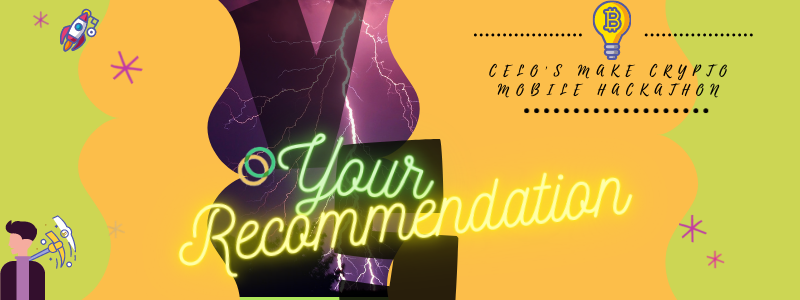
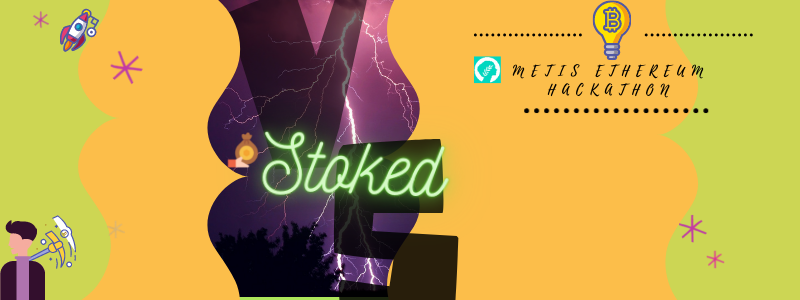
Finished implemeting stoke token to test, it works well in rinkeby

Changed region(s): [[0.2188, 0.42, 0.8125, 0.93], [0.5938, 0.18, 0.9062, 0.33]]

diff --git a/src/App.js b/src/App.js
@@ -1,6 +1,5 @@
 import React, { useState, useEffect } from 'react';
 import Web3 from 'web3';
-import { newKitFromWeb3 } from '@celo/contractkit';
 import BigNumber from 'bignumber.js';
 import { Tabs, Tab, Col, Toast, Button } from 'react-bootstrap';
 
@@ -9,17 +8,16 @@ import './extra/css/style.css'
 import Navigate from './components/Navigate'
 import AddItems from './components/AddItems';
 import Cards from './components/Cards';
-// import Toasts from './components/Toasts';
 
-import animeBallotAbi from './contracts/animeBallot.abi.json';
-import erc20Abi from './contracts/erc20.abi.json';
+import stokedAbi from './contracts/stoked.abi.json';
+import stokeTokenAbi from './contracts/stoke.abi.json';
 import Group from './components/Group';
 import PrevWin from './components/PrevWin';
 import Footer from './components/Footer';
 
 const MY_ERC20_DECIMALS = 10; // I will be using 10 instead of 18 
-const cUSDContractAddress = "0x874069Fa1Eb16D44d622F2e0Ca25eeA172369bC1"
-const AnimeContractAddress = "0xc342bf51CFBB8400347Ba2132b79A266C42823F2"
+const stokeTokenAddress = "0x9C002b1C1E0e5A9D0cD4787AeE4e01f28a46aaa7"
+const StokedContractAddress = "0x5F528C36e47ECDfc4560121AF7Dd9428C4840BB3"
 
 const cost = 2; // this is the cost to donate
 
@@ -55,7 +53,7 @@ function App() {
   
   useEffect(() => {
     if (!kit) return ; // useeffect run first before checking dependecy, this ensure that it doesn't run before
-    loadCeloContract()
+    loadBlockchain()
   }, [kit])
 
   useEffect(() => {
@@ -84,11 +82,11 @@ function App() {
     )
   }
 
-  async function getCusd() {
+  async function getBalance() {
     if (!kit) return;
-    const celoBalance = await kit.getTotalBalance(kit.defaultAccount);
-    const cusdBalance = await celoBalance.cUSD.shiftedBy(-18).toFixed(2); 
-    setBalance(cusdBalance);
+    const ethBalance = await kit.eth.getBalance(address);
+    const etherBalance = await new BigNumber(ethBalance).shiftedBy(-18).toString(); 
+    setBalance(etherBalance);
   }
 
   async function donateToLike(animeName) {
@@ -96,14 +94,14 @@ function App() {
 
     const amount = new BigNumber(cost).shiftedBy(MY_ERC20_DECIMALS).toString();
 
-    const cusdContract = await new kit.web3.eth.Contract(erc20Abi, cUSDContractAddress)
+    const stokeTokenContract = await new kit.eth.Contract(stokeTokenAbi, stokeTokenAddress)
 
-    await cusdContract.methods.approve(AnimeContractAddress, amount)
-      .send({ from: kit.defaultAccount })
+    await stokeTokenContract.methods.approve(StokedContractAddress, amount)
+      .send({ from: address })
       .on('transactionHash', hash => {
         // voting transaction goes here
         contract.methods.voting(animeName)
-          .send({ from: kit.defaultAccount })
+          .send({ from: address })
           .on('transactionHash', hash => {
             contract.methods.isThereWinner().call()
               .then(res => {
@@ -149,7 +147,7 @@ function App() {
       setLoading(true);
       let createListReply = await contract.methods
       .createAnimeList(arr)
-      .send({from: kit.defaultAccount});
+      .send({from: address});
 
       setToaster({
         ...toaster,
@@ -213,11 +211,11 @@ function App() {
 
   function payWinner() {
     contract.methods.winningVoter()
-      .send({ from: kit.defaultAccount })
+      .send({ from: address })
       .on("transactionHash", hash => {
         console.log("All winning address has been selected");
         contract.methods.payWinner()
-          .send({ from: kit.defaultAccount })
+          .send({ from: address })
           .on("transactionHash", hash => {
             console.log("Payment was successful");
             contract.methods.previousWinner().call()
@@ -272,14 +270,14 @@ function App() {
   }
 
   async function loadWeb3() {
-    if (window.celo) {
+    if (window.ethereum) {
       try {
         // enable celo interaction
-        window.web3 = new Web3(window.celo);
-        await window.celo.enable();
-        let celoKit = newKitFromWeb3(window.web3);
-        await setKit(celoKit);
-        await getCusd()
+        window.web3 = new Web3(window.ethereum);
+        await window.ethereum.send('eth_requestAccounts');
+        // let celoKit = newKitFromWeb3(window.web3);
+        await setKit(window.web3);
+        await getBalance()
 
       }
       catch (error) {
@@ -290,31 +288,33 @@ function App() {
       window.web3.eth.net.getId()
         .then(async (res) => {
           if (res == 44787) {
-            window.ethereum.send('eth_requestAccounts');
-            let celoKit = newKitFromWeb3(window.web3);
-            await setKit(celoKit);
-            await getCusd()
+            // window.ethereum.send('eth_requestAccounts');
+            console.log('Hello currentProvider');
+            // let celoKit = newKitFromWeb3(window.web3);
+            await setKit(window.web3);
+            await getBalance()
             
           } else {
-            alert("You need to switch to celo network on metamask")
+            alert("You need to switch to Rinkeby network on metamask")
           }
         }).catch(error => console.error(error))
       // alert("You should access this with celo-browser extension")
     } else {
-      alert("Get the celo browser extension from chrome extensions")
+      alert("Get the Metamask extension from chrome extensions")
     }
   }
 
-  async function loadCeloContract() {
-    let address_ = await kit.web3.eth.getAccounts();
+  async function loadBlockchain() {
+    const web3 = window.web3;
+    let address_ = await web3.eth.getAccounts();
 
     // get and set default address
-    kit.defaultAccount = address_[0];
+    //kit.defaultAccount = address_[0];
     await setAddress(address_[0]);
 
 
     // sign and set contract
-    const myContract = new kit.web3.eth.Contract(animeBallotAbi, AnimeContractAddress);
+    const myContract = new web3.eth.Contract(stokedAbi, StokedContractAddress);
     await setContract(myContract);
 
   }

diff --git a/src/components/Footer.js b/src/components/Footer.js
@@ -12,7 +12,7 @@ const Footer = () => {
           <div className="row">
               <div className="col-sm-8">
                 <div className="columnbottom-margin recent-work-wrap">
-                  <h4 className="widget-title">CELO <span>Hackathon</span></h4>
+                  <h4 className="widget-title">Metis Ethereum <span>Hackathon</span></h4>
                   <div className="latest-pfolio">
                     <div className="col-xs-12 no-space">
                       <div className="portfolio-wrapper">
@@ -27,7 +27,7 @@ const Footer = () => {
                 <div className="columnbottom-margin contact-info-wrap">
                   <h4 className="widget-title">Contact <span>Details</span></h4>
                   <ul className="contact-info list-unstyled">
-                  <li><i className="fa fa-github" /> <a href="https://github.com/Bayurzx/dapp_react"> Github Link</a></li>
+                  <li><i className="fa fa-github" /> <a href="https://github.com/Bayurzx/metis"> Github Link</a></li>
                     <li><i className="fa fa-phone" /> <a href="tel:+234-816-603-9145">+234 816 603 9145</a></li>
                     <li><i className="fa fa-envelope" /> <a href="mailto:bayurzx@gmail.com">bayurzx@gmail.com</a></li>
                   </ul>{/* end contact-info  */}

diff --git a/src/components/Navigate.js b/src/components/Navigate.js
@@ -1,7 +1,7 @@
 import React from "react";
 import { Navbar, Container, Nav, Form, FormControl, Button } from 'react-bootstrap';
 
-import icon from "../celo-logo.png";
+import icon from "../some-logo.png";
 
 const Navigate = ({account}) => {
     return (
@@ -10,7 +10,7 @@ const Navigate = ({account}) => {
             <Navbar bg="light" expand="lg">
                 <Container>
                     <img src={icon} alt="celo" className="align-left inline-block mx-2" width="30" height="30" />
-                    <Navbar.Brand href="#">Your Recommendation</Navbar.Brand>
+                    <Navbar.Brand href="#">Stoked</Navbar.Brand>
                     <Navbar.Toggle aria-controls="navbarScroll" />
                     <Navbar.Collapse id="navbarScroll">
                         <Nav

diff --git a/src/components/Group.js b/src/components/Group.js
@@ -97,7 +97,7 @@ const Group = ({ currentGrp, donateToLike, winningName, totalVoteCount, payWinne
                     <h5 className="totalVoteText mt-3">
                         💰 {+totalVoteCount *2}
                         <br />
-                        Celo
+                        Seed
                         <br />
                         Staked
                         {/* {totalVote*2} */}

diff --git a/src/components/ModalYt.js b/src/components/ModalYt.js
@@ -10,7 +10,7 @@ const ModalYt = ({ youTube, title }) => {
     const handleShow = () => setShow(true);
 
     const embedYt = (ytLink) => {
-        if ("youwatch?".indexOf("watches") === -1) return "pdFl__NlOpA"
+        if ("youwatch?".indexOf("watch") === -1) return "pdFl__NlOpA"
         return ytLink.split("watch?v=")[1].slice(0, 11);
     }
     

diff --git a/public/index.html b/public/index.html
@@ -31,7 +31,7 @@
       work correctly both with client-side routing and a non-root public URL.
       Learn how to configure a non-root public URL by running `npm run build`.
     -->
-    <title>Your Reccomendation</title>
+    <title>Stoked</title>
   </head>
   <body>
     <noscript>You need to enable JavaScript to run this app.</noscript>
